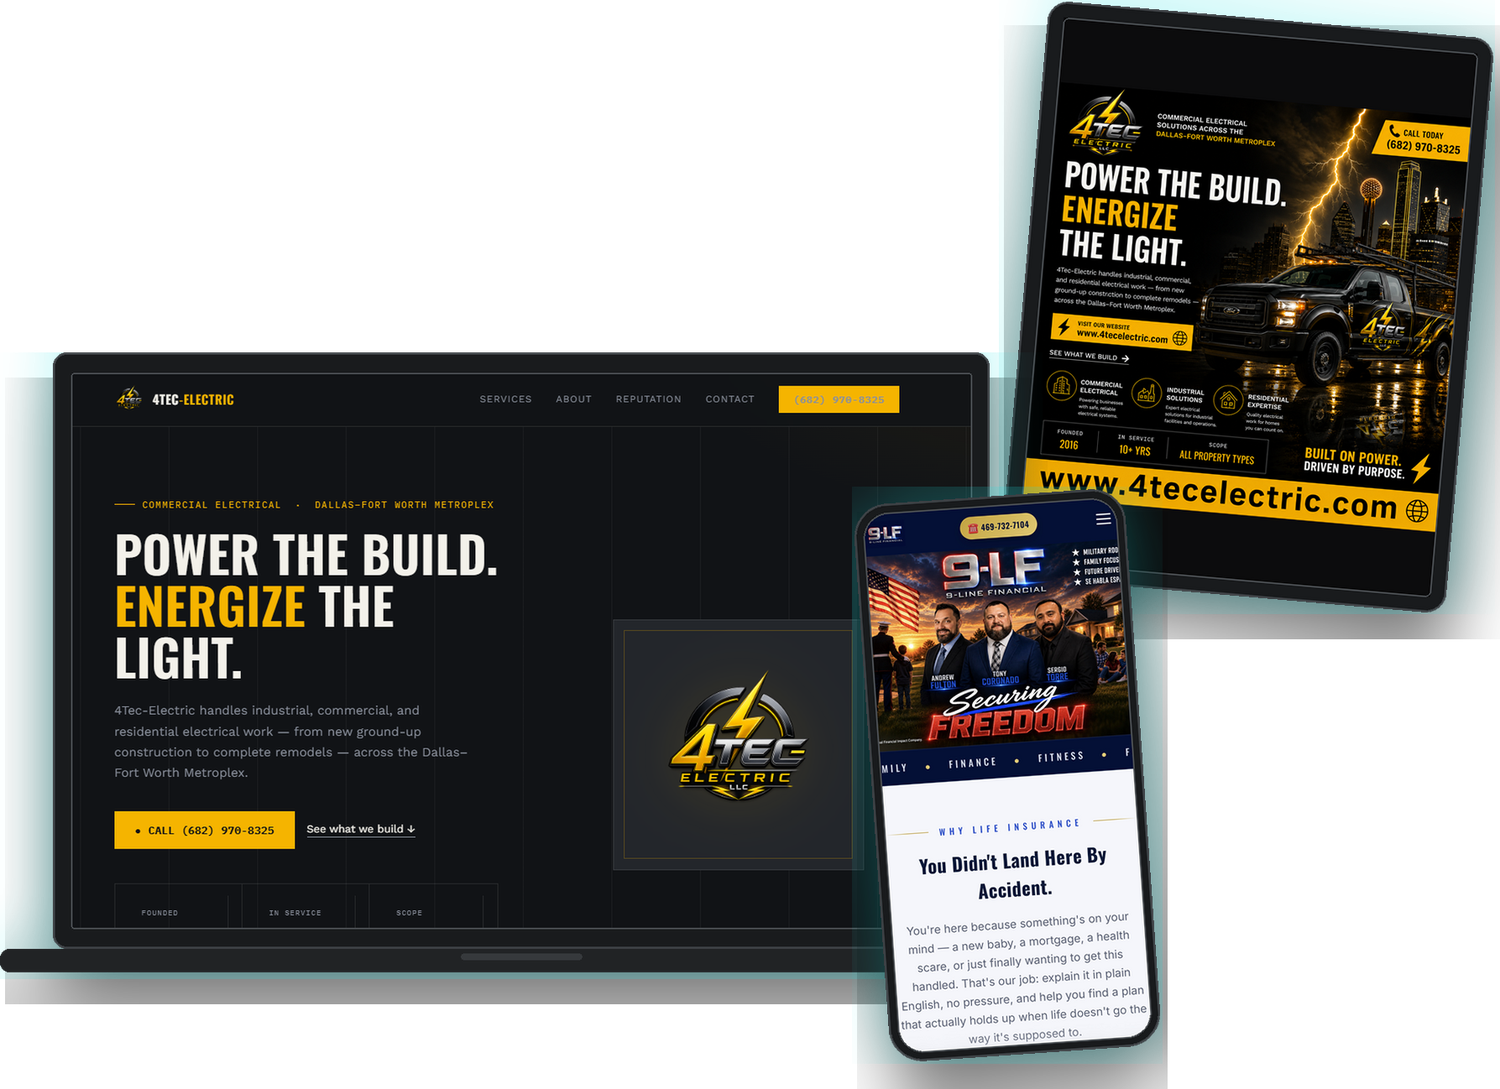
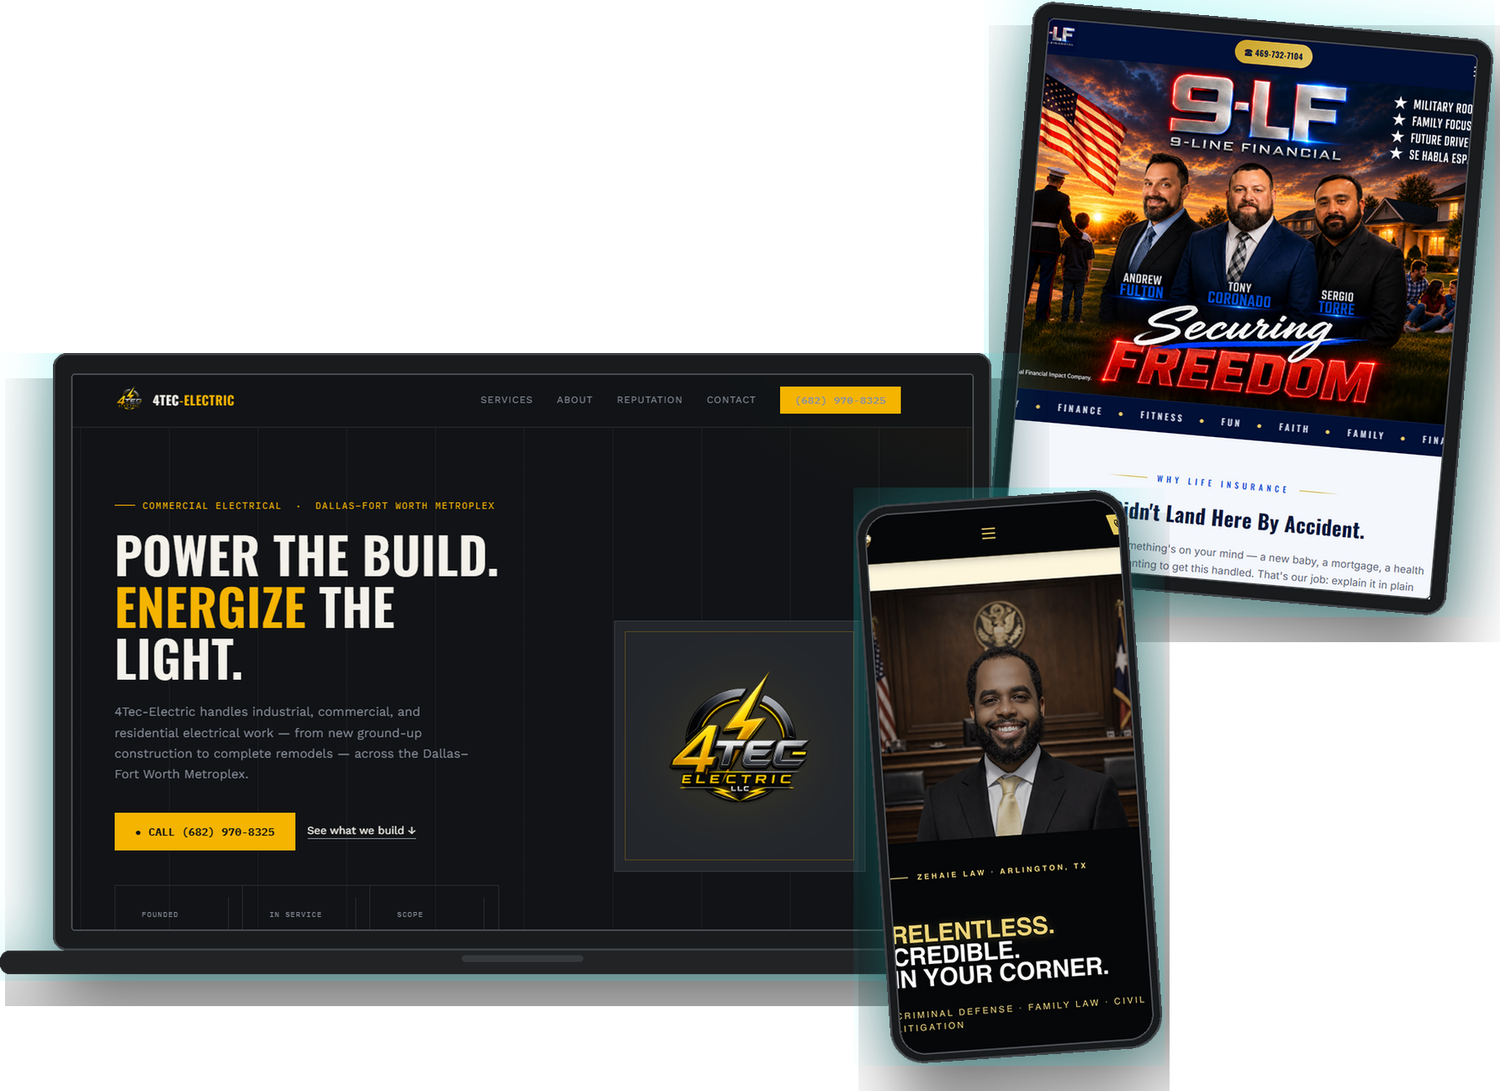
Add files via upload

diff --git a/index.html b/index.html
@@ -1879,6 +1879,7 @@
   nav.nav-light .nav-links {
     display: flex; gap: 34px; list-style: none; margin: 0 0 0 auto; padding: 0;
   }
+  .nav-shell .hamburger { margin-left: auto; }
   nav.nav-light .nav-links a {
     font-family: 'Orbitron', sans-serif; font-size: 0.72rem; letter-spacing: .12em;
     text-transform: uppercase; text-decoration: none; color: #55605F;
@@ -1955,6 +1956,53 @@
     .hero-devices { max-width: 560px; }
   }
 
+
+  /* ===== HERO BUMPERS — centred container, tighter middle ===== */
+  .hero {
+    display: block !important;
+    padding: 0 !important;
+  }
+  .hero::before { content: none; }
+  .hero-inner {
+    max-width: 1360px; margin: 0 auto; padding: 0 5vw;
+    display: grid; grid-template-columns: 1.02fr 1.28fr;
+    gap: 28px; align-items: center; min-height: 78vh;
+  }
+  .hero-text-panel {
+    padding: 60px 0 !important; background: transparent !important;
+    min-height: auto !important;
+  }
+  .hero-image-panel {
+    padding: 0 !important; min-height: auto !important;
+    display: flex; align-items: center; justify-content: flex-end;
+  }
+  .hero-devices { width: 100%; max-width: 100%; height: auto; display: block; }
+
+  @media (max-width: 980px) {
+    .hero-inner {
+      grid-template-columns: 1fr !important; gap: 0; min-height: auto;
+      padding: 0 6vw;
+    }
+    .hero-text-panel { padding: 52px 0 8px !important; }
+    .hero-image-panel { justify-content: center; padding-bottom: 44px !important; }
+    .hero-devices { max-width: 620px; }
+  }
+
+
+  /* align nav + top strip to the same container as the hero */
+  .top-strip-inner {
+    max-width: 1360px !important; margin: 0 auto !important;
+    padding: 0 5vw !important;
+  }
+  nav.nav-light {
+    padding: 0 !important;
+  }
+  nav.nav-light > * { position: relative; }
+  .nav-shell {
+    max-width: 1360px; margin: 0 auto; padding: 0 5vw;
+    display: flex; align-items: center; gap: 28px; width: 100%; height: 78px;
+  }
+
 </style>
 </head>
 <body>
@@ -1970,6 +2018,7 @@
 </div>
 
 <nav class="nav-light">
+ <div class="nav-shell">
   <a href="#home" class="nav-logo" aria-label="Mega Mission Media home">
     <img src="mmm-logo-tile-simple.png" alt="Mega Mission Media">
     <span class="nav-wordmark">MEGA MISSION<em>MEDIA</em></span>
@@ -1986,6 +2035,7 @@
   <button class="hamburger" id="hamburger" aria-label="Open menu">
     <span></span><span></span><span></span>
   </button>
+ </div>
 </nav>
 
 <div class="mobile-nav-drawer" id="mobileNav">
@@ -2004,6 +2054,7 @@
   </div>
 </div>
 <section class="hero" id="home">
+ <div class="hero-inner">
   <div class="hero-text-panel">
     <div class="hero-content">
       <div class="on-air"><div class="on-air-dot"></div> On Air — Fort Worth, TX</div>

diff --git a/CHANGELOG.md b/CHANGELOG.md
@@ -143,3 +143,28 @@ your Business Profile. Say the 817 out loud on calls, and forward 682 → 817.
 ## To swap a device screen later
 The mockup is a flat image. Send new screenshots and I'll rebuild it — the
 tablet is the obvious slot for Yoel's site or Tony's desktop view.
+
+---
+
+# Round 4 — Hero bumpers + three clients in the mockup
+
+## Mockup now shows three different clients
+- **Laptop** — 4TEC Electric website
+- **Tablet** — 9-Line Financial
+- **Phone** — Zehaie Law / Call Yoel Now
+
+The 4TEC campaign flyer came out. You were right: it's a flyer, not a website,
+and putting it in a tablet frame implied it was one. It belongs in the portfolio
+as branding work instead.
+
+Three devices, three clients — reads as "this happens repeatedly," not "I built
+one website."
+
+## Hero bumpers
+Nav, top strip, and hero now share one centred 1360px container with 5vw side
+padding. Headline pulls right, devices pull left, dead space in the middle
+closes up. Nothing runs edge-to-edge except the ticker, which should.
+
+## To swap a device later
+Send a new screenshot and say which device. Laptop wants ~4:3 desktop,
+tablet ~4:3 narrower, phone from your actual phone.
